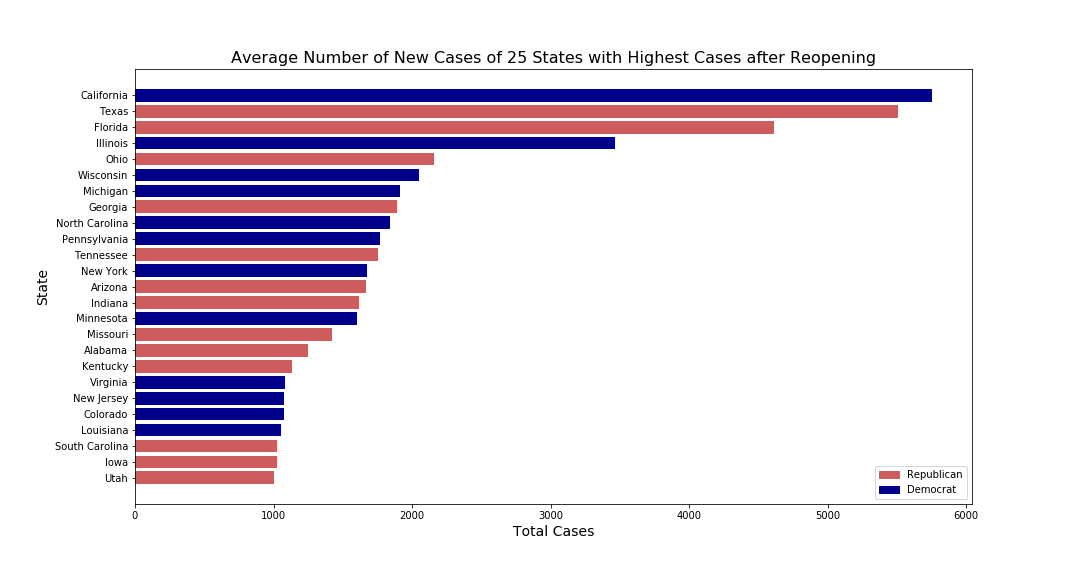
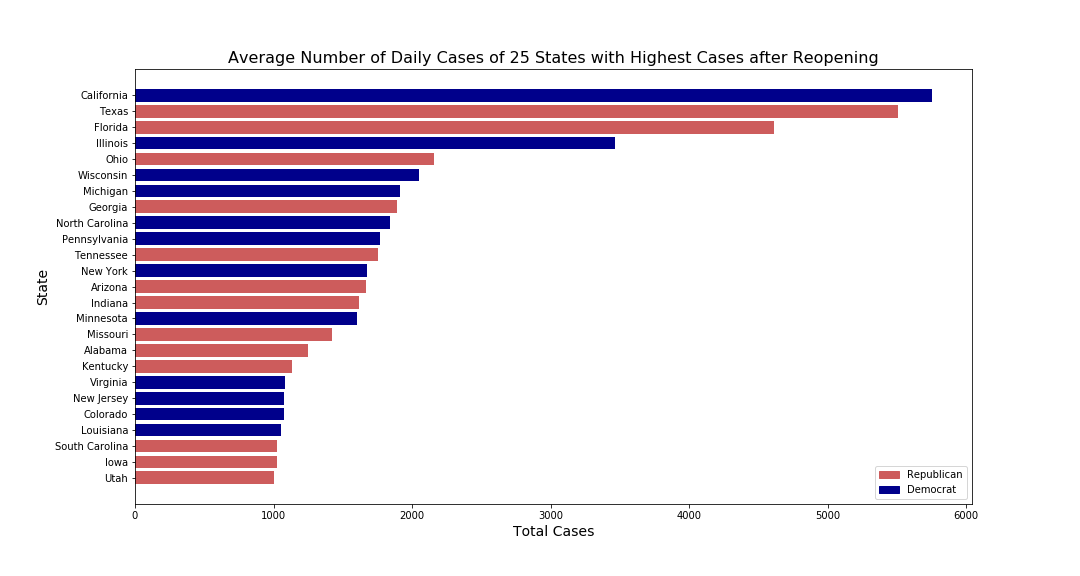
Update code

Changed region(s): [[0.2139, 0.0625, 0.825, 0.125]]

diff --git a/project_script.py b/project_script.py
@@ -120,7 +120,7 @@ df_overall = df_overall[df_overall['after_policy']==1].nlargest(25, 'new_case_af
 
 def bar_by_party(data, fname):
     fig, ax = plt.subplots(figsize=(15,8))
-    ax.set_title('Average Number of New Cases of 25 States with Highest Cases after Reopening', fontsize=16)
+    ax.set_title('Average Number of Daily Cases of 25 States with Highest Cases after Reopening', fontsize=16)
     ax.set_xlabel('Total Cases', fontsize=14)
     ax.set_ylabel('State', fontsize=14)
     y_pos = np.arange(len(df_overall['state_name']))
@@ -153,7 +153,13 @@ bar_by_party(df_overall, 'top25_states_highest_cases.png')
 # plot before and after
 # use mean policy date
 df_ba = df[['date', 'positive_by_date', 'death_by_date']].drop_duplicates()
-df_ba['new_case_by_date'] = df['positive_by_date'].diff(-1)
+df_ba['month'] = df_ba['date'].apply(lambda t: t.month)
+df_ba['new_case_by_date'] = df_ba['positive_by_date'].diff(-1)
+df_ba['positive_by_month'] = df_ba.groupby(['month'])['positive_by_date'].transform('mean')
+df_ba['death_by_month'] = df_ba.groupby(['month'])['death_by_date'].transform('mean')
+
+df_ba_month = df_ba[['month', 'positive_by_month', 'death_by_month']].drop_duplicates()
+df_ba['new_cases_by_month'] = df_ba.groupby(['month'])['positive_by_month'].diff(-1)
 
 # Inspired from: https://stackoverflow.com/questions/35599607/average-date-array-calculation
 mean_reopening = (np.array(df_reopening['policy_date'], dtype='datetime64[ns]')
@@ -161,21 +167,19 @@ mean_reopening = (np.array(df_reopening['policy_date'], dtype='datetime64[ns]')
                   .mean()
                   .astype('datetime64[ns]'))
 
-fig, ax = plt.subplots(figsize=(15,7))
-ax.set_title('Average Number of Covid-19 Daily Cases', fontsize=16)
-ax.set_xlabel('Date', fontsize=14)
-ax.set_ylabel('New Cases', fontsize=14)
-ax.bar('date', 'new_case_total', data = data, color='lightgray')
-dstart = datetime(2020,4,1)
-dend = datetime(2020,11,30)
-ax.set_xlim([dstart, dend])
-ax2 = ax.twinx()
-ax2 = sns.lineplot(x='date', y='new_case_mean_party', hue='party', data = data, palette=['r', 'b'])
-ax2.set_yticks([])
-ax2.set_ylabel('')
-legend = ax2.legend(loc='best')
-legend.texts[0].set_text('Political Party')
-plt.savefig(fname)
-plt.show()
+def plot_ba(data, col, fname):
+    fig, ax = plt.subplots(figsize=(15,7))
+    ax.set_title('Average Number of Covid-19 Daily Cases', fontsize=16)
+    ax.set_xlabel('Date', fontsize=14)
+    ax.set_ylabel('Number of Cases', fontsize=14)
+    ax.axvline(datetime(2020,5,16), color='b', linestyle='--')
+    #ax.bar('date', 'new_case_by_date', data = df_ba, color='lightgray')
+    dstart = datetime(2020,4,1)
+    dend = datetime(2020,11,30)
+    ax.set_xlim([dstart, dend])
+    ax = plt.scatter(data['date'].tolist(), data[col], 
+                 color='tab:orange', alpha=0.5, edgecolors='none')
+    plt.savefig(fname)
+    plt.show()
 
-
+plot_ba(df_ba, 'new_case_by_date', 'newcase_before_after.png')
